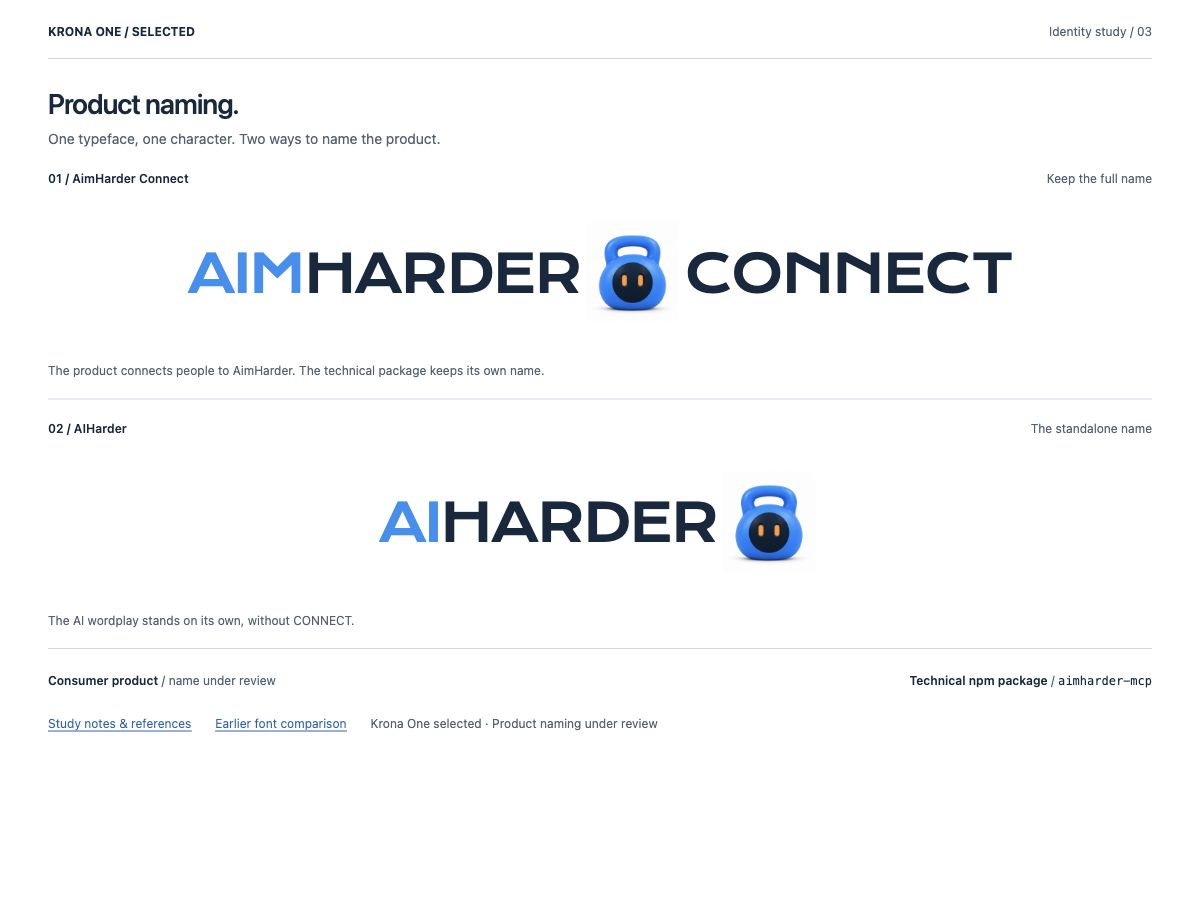
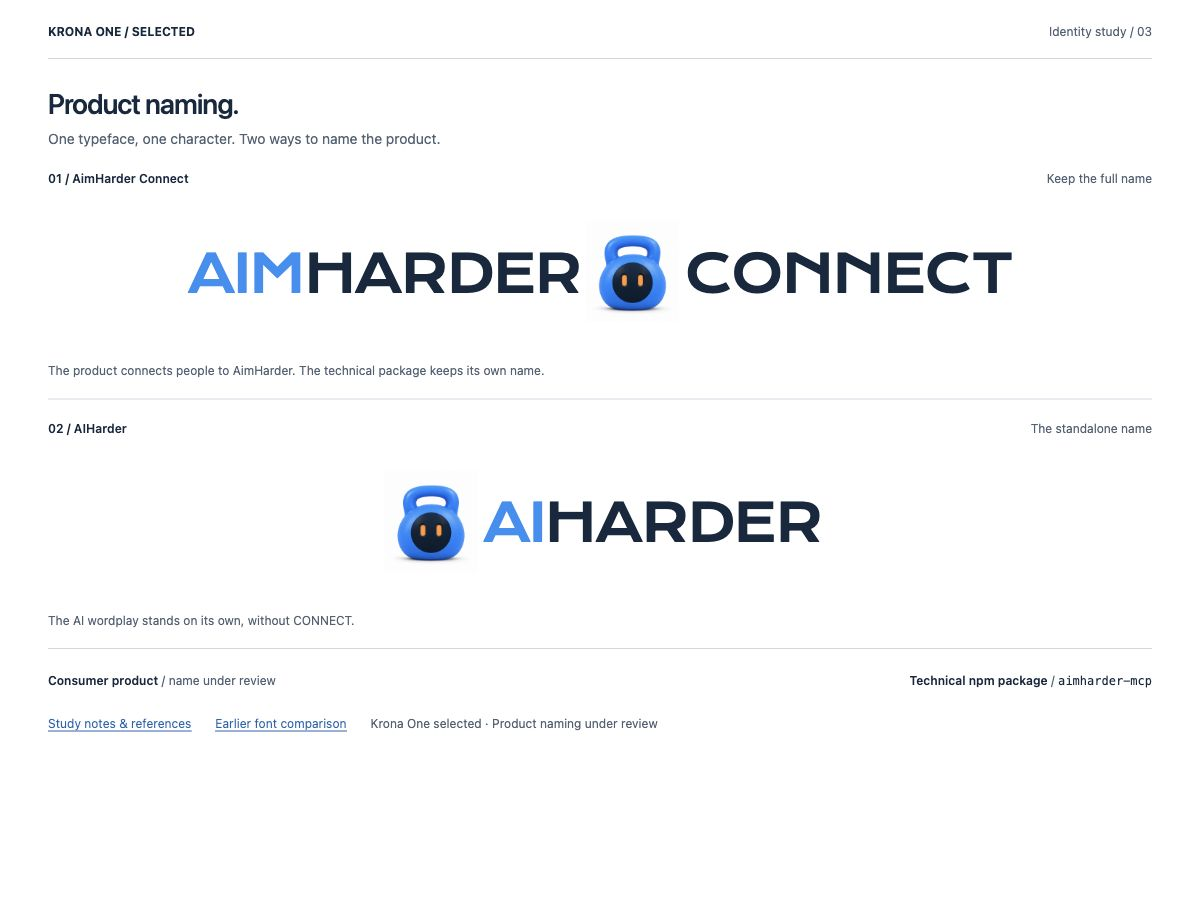
design: place the kettle to the left of AIHarder

Changed region(s): [[0.3083, 0.518, 0.7092, 0.6094]]

diff --git a/design/identity/connect-study/index.html b/design/identity/connect-study/index.html
@@ -21,7 +21,7 @@
 </section>
 <section aria-labelledby="name-2">
 <div class="row-label"><h2 id="name-2">02 / AIHarder</h2><span>The standalone name</span></div>
-<div class="stage"><div class="logo" role="img" aria-label="AIHarder with the blue kettlebell symbol"><span class="word"><span class="prefix">AI</span><span>HARDER</span></span><span class="symbol"><img src="../video/reference-pack/01-front-neutral.png" alt=""></span></div></div>
+<div class="stage"><div class="logo" role="img" aria-label="Blue kettlebell symbol followed by AIHarder"><span class="symbol"><img src="../video/reference-pack/01-front-neutral.png" alt=""></span><span class="word"><span class="prefix">AI</span><span>HARDER</span></span></div></div>
 <p class="row-note">The AI wordplay stands on its own, without CONNECT.</p>
 </section>
 <div class="architecture"><p><strong>Consumer product</strong> / name under review</p><p><strong>Technical npm package</strong> / <code>aimharder-mcp</code></p></div>

diff --git a/design/identity/connect-study/README.md b/design/identity/connect-study/README.md
@@ -8,7 +8,7 @@ Prepared 2026-10-30 for #95. The owner selected **Krona One** and ended further 
 
 Designing the consumer product wordmark while retaining `aimharder-mcp` as the technical npm package. The owner's proposed product name is **AimHarder Connect**; **AIHarder**, without CONNECT, is the alternative made by removing the M. Neither product name is selected yet. Package/repository names, MCP identifiers, authentication and runtime behavior are unchanged.
 
-Primary build target: the [existing actual-font wordmark composition](../wordmark-study/README.md), narrowed to owner-selected Krona One 400. Preserve the white review surface, blue AIM / navy HARDER, established enlarged blue sculptural kettle, orange recessed eyes and horizontal composition. For AIHarder, the retained AI prefix takes the same blue role. CONNECT takes the former navy MCP role. The standalone AIHarder variant places the same kettle after the name.
+Primary build target: the [existing actual-font wordmark composition](../wordmark-study/README.md), narrowed to owner-selected Krona One 400. Preserve the white review surface, blue AIM / navy HARDER, established enlarged blue sculptural kettle, orange recessed eyes and horizontal composition. For AIHarder, the retained AI prefix takes the same blue role. CONNECT takes the former navy MCP role. The standalone AIHarder variant places the same kettle to the left of the name, following the owner's 2026-10-30 placement refinement.
 
 Refero research refreshed two searches and full records on 2026-10-30: [GT America](https://www.gt-america.com), style `d511736a-a382-41d0-9a7c-0ac678e29237`, for type-led specimens on white; [shadcn/ui](https://ui.shadcn.com), style `c14c0a94-1037-449e-bf5b-4cb972656ac7`, for quiet separators and secondary labels. Their fonts, action colors, imagery, component catalogues and site layouts are not imported. The bundled typography/visual-QA references support real font files, consistent cap height and explicit rendered inspection.
 
@@ -17,7 +17,7 @@ Refero research refreshed two searches and full records on 2026-10-30: [GT Ameri
 | Krona One Regular 400 | Explicit owner selection | Actual existing local font; no generated lettering or alternative font tabs. |
 | Blue prefix / navy remainder and CONNECT | Owner's original two-color pattern | Existing `#2490F4` / `#14283F`; removing M does not introduce a new color. |
 | Enlarged sculptural symbol | Existing wordmark study and selected circular-face character | Same static neutral master and 1.5× symbol multiplier; no new motion or image generation. |
-| Two naming specimens | Owner's two naming ideas and explicit standalone-name correction | AIMHARDER [symbol] CONNECT; AIHARDER [symbol]. |
+| Two naming specimens | Owner's two naming ideas and explicit standalone-name correction | AIMHARDER [symbol] CONNECT; [symbol] AIHARDER. |
 | Common nominal cap height | Existing typography comparison and craft reference | Identical type/symbol scale across rows, without stretching glyphs. |
 | White board / fine dividers / minimal labels | Existing board and bounded Refero references | Branding comparison only; no home-page or product UI design. |
 
@@ -36,6 +36,7 @@ Source truth: the locked existing wordmark, owner-selected Krona One, unchanged 
 - Chrome confirmed the actual Krona family loaded, both requested spellings, blue prefix/navy remainder, the same enlarged symbol and identical cap-height settings. No substitute font, stretched glyphs, motion or generated lettering is used.
 - At 1200px, specimen widths are approximately 825px / 442px inside a 1104px stage. At 390px, they are approximately 286px / 153px inside 358px. At 320px, all marks fit and document width equals viewport width. Narrow-screen checks are desktop emulation, not physical-device acceptance. Temporary viewport overrides were reset.
 - Browser console contained no reported errors. Font/image checksums, local references, Tailscale HTTP delivery and whitespace checks passed. No production TypeScript, package metadata or dependency changed; no runtime test suite was run for this static specimen.
+- The owner's left-symbol AIHarder refinement was inspected on desktop and at 390px, and both captures were refreshed. Only the standalone row's symbol/text order changed; type size, symbol scale, colors and spacing are retained.
 - Visual QA passed against the reference lock: exact selected font, color roles, static media and horizontal order preserved; no unresolved clipping or overlap observed.
 
- Existing architecture/product/security ADRs are unaffected: this records a selected display font and reversible naming candidates, without adopting a product rename or changing distribution. The provisional `.pen` UI foundations and product-UI font are unchanged.
+Existing architecture/product/security ADRs are unaffected: this records a selected display font and reversible naming candidates, without adopting a product rename or changing distribution. The provisional `.pen` UI foundations and product-UI font are unchanged.

diff --git a/design/identity/README.md b/design/identity/README.md
@@ -2,7 +2,7 @@
 
 Latest isolated experiment: [planted-base body flex](idol-motion-prototype/README.md#planted-base-body-deformation) uses the existing 32k body and curved eye recesses. A shared shear moves the handle forward/backward while height changes between 86% and 114%; the floor plane stays flat, both carved eyes follow the body, and a diminishing rebound returns to neutral. Chrome side/quarter inspection and numerical transform/depth-ordering checks passed; owner motion acceptance remains pending. Earlier curved-eye and stronger/slower curiosity revisions were owner accepted; the look-around gesture also remains available for review. No new model, production integration or architecture decision is introduced.
 
-Current brand-design stage, 2026-10-30: the owner selected **Krona One** and stopped further motion trials for now. The [Connect naming study](connect-study/README.md) compares **AIMHARDER [symbol] CONNECT** and standalone **AIHARDER [symbol]**, with real Krona One and the existing enlarged static character. The consumer product name remains a proposal; `aimharder-mcp` remains the technical package. The [earlier real-font study](wordmark-study/README.md) is historical comparison evidence. No public home page is selected.
+Current brand-design stage, 2026-10-30: the owner selected **Krona One** and stopped further motion trials for now. The [Connect naming study](connect-study/README.md) compares **AIMHARDER [symbol] CONNECT** and standalone **[symbol] AIHARDER**, with real Krona One and the existing enlarged static character. The consumer product name remains a proposal; `aimharder-mcp` remains the technical package. The [earlier real-font study](wordmark-study/README.md) is historical comparison evidence. No public home page is selected.
 
 Latest motion candidate: [side-bounce dance](video/atomic-emotes/trial-08-side-bounce-dance/README.md), generated from the existing pose references. The 24-frame edit retains four low bounce phases and returns to neutral; owner acceptance remains pending.
 
